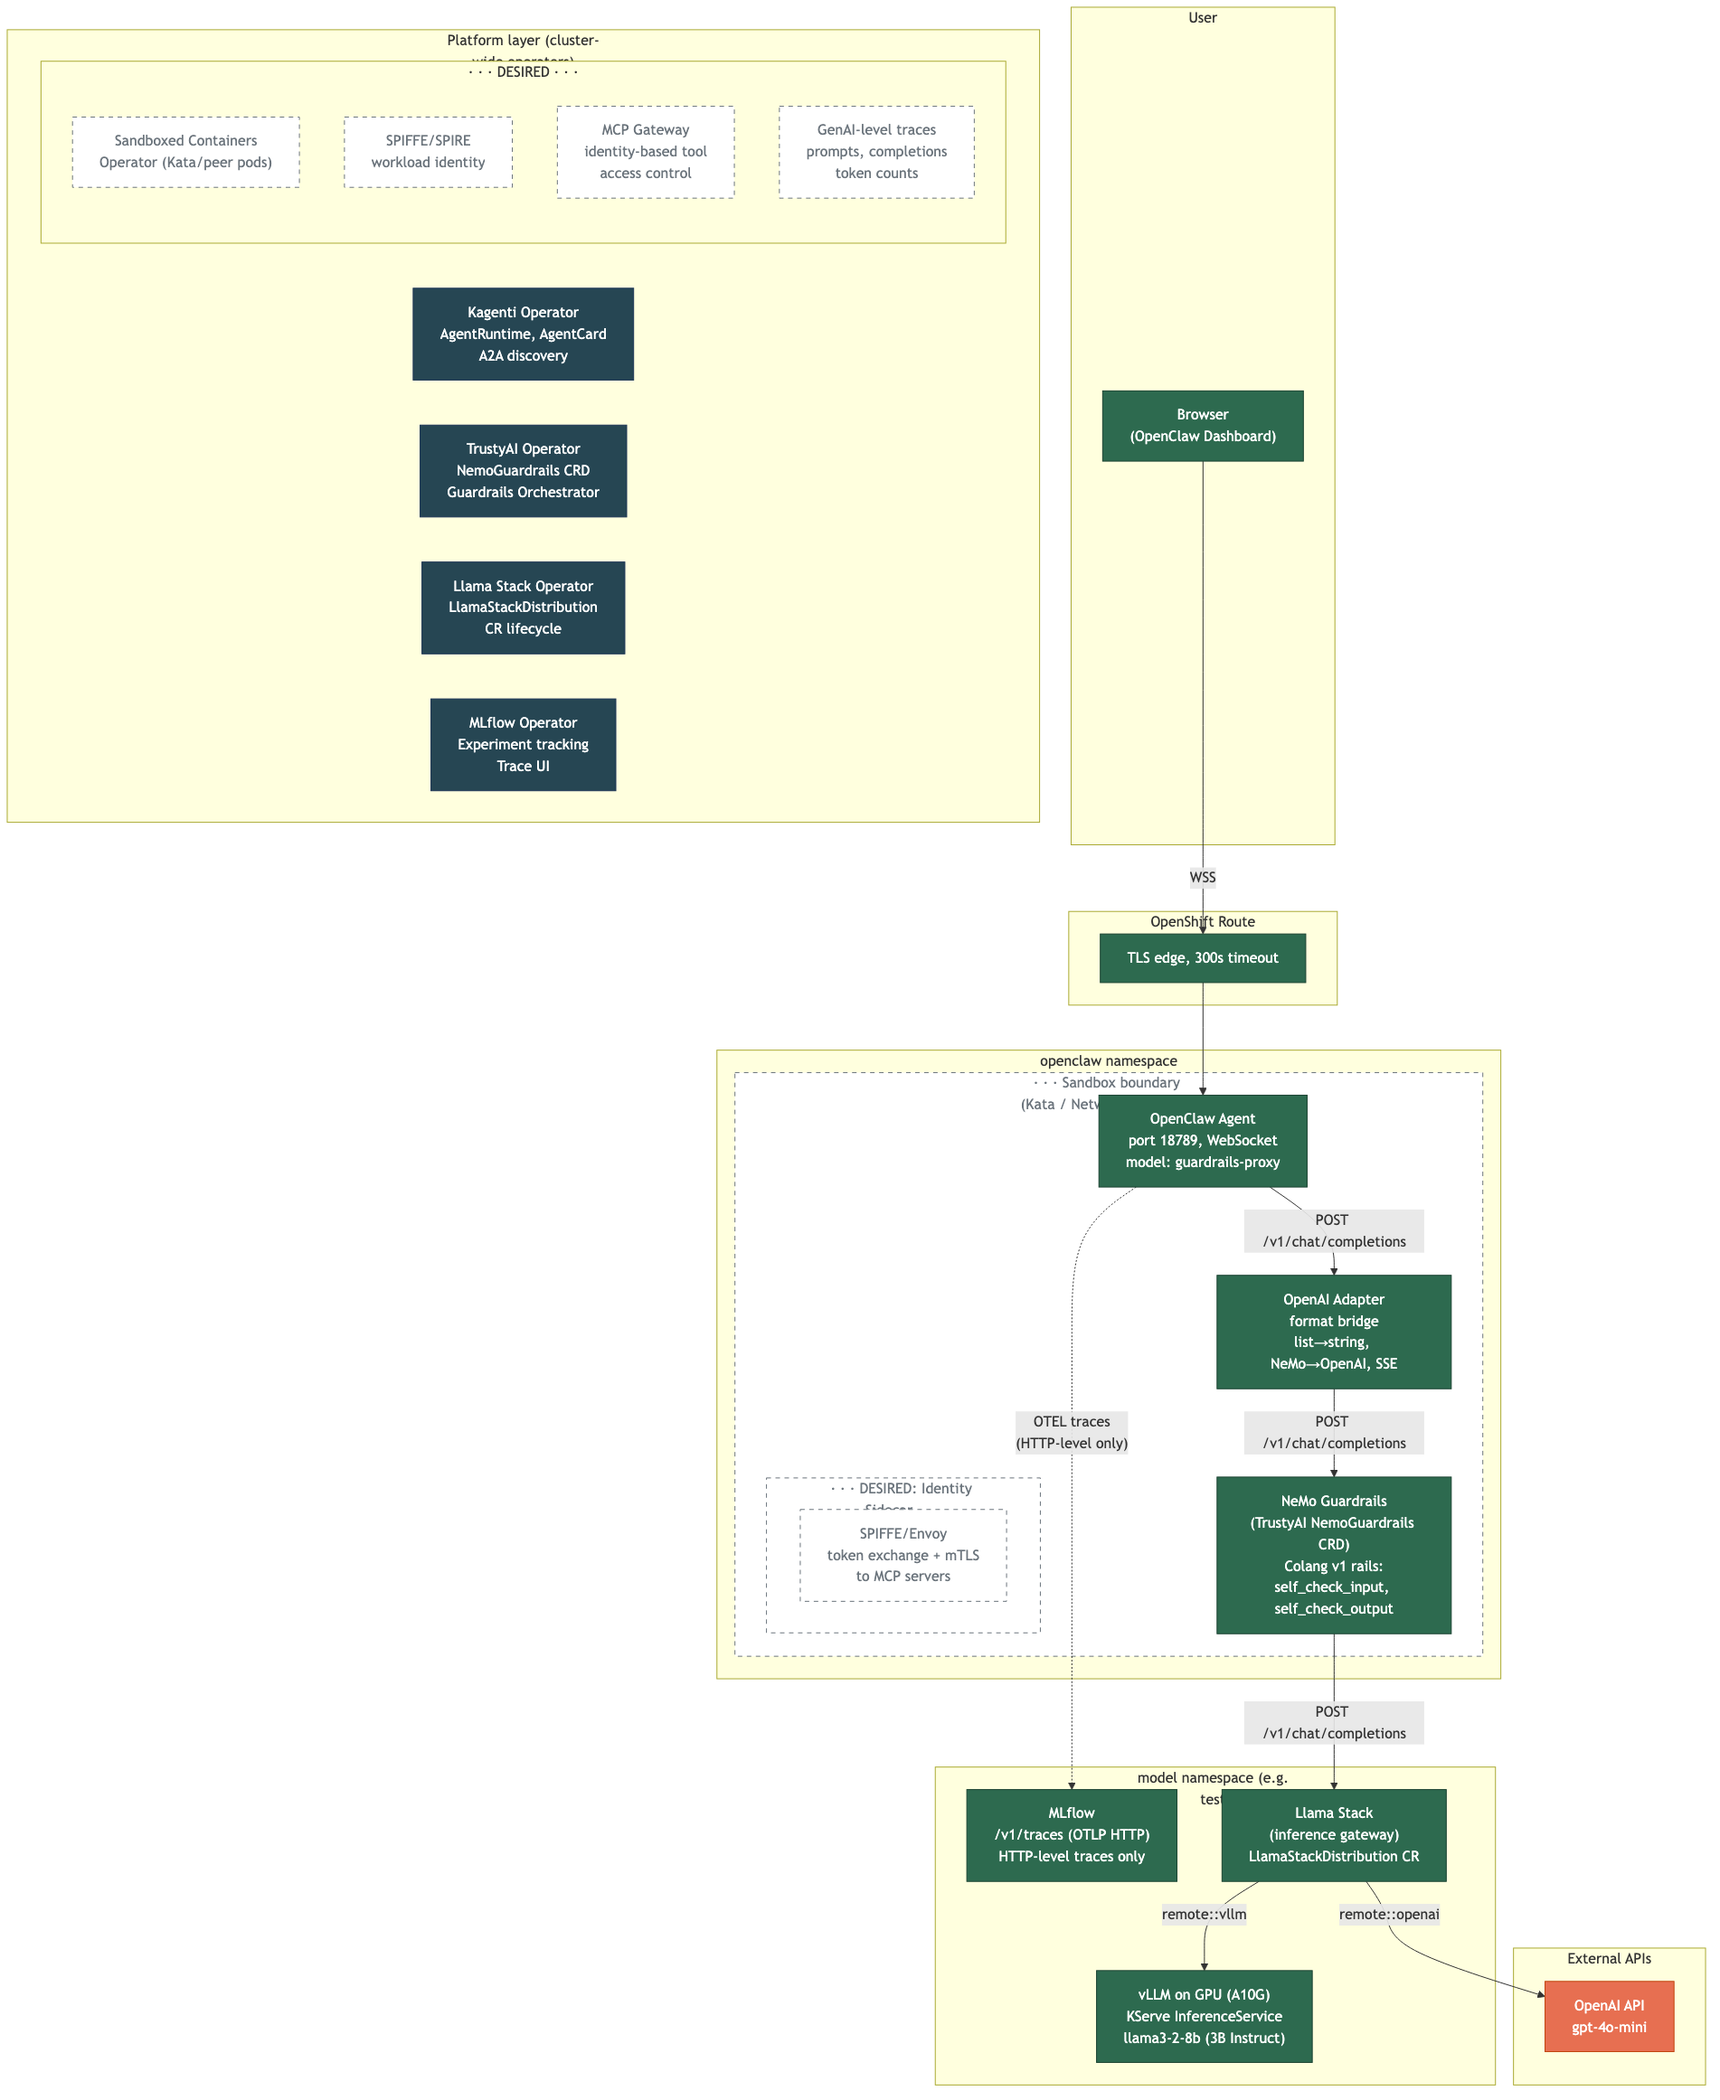
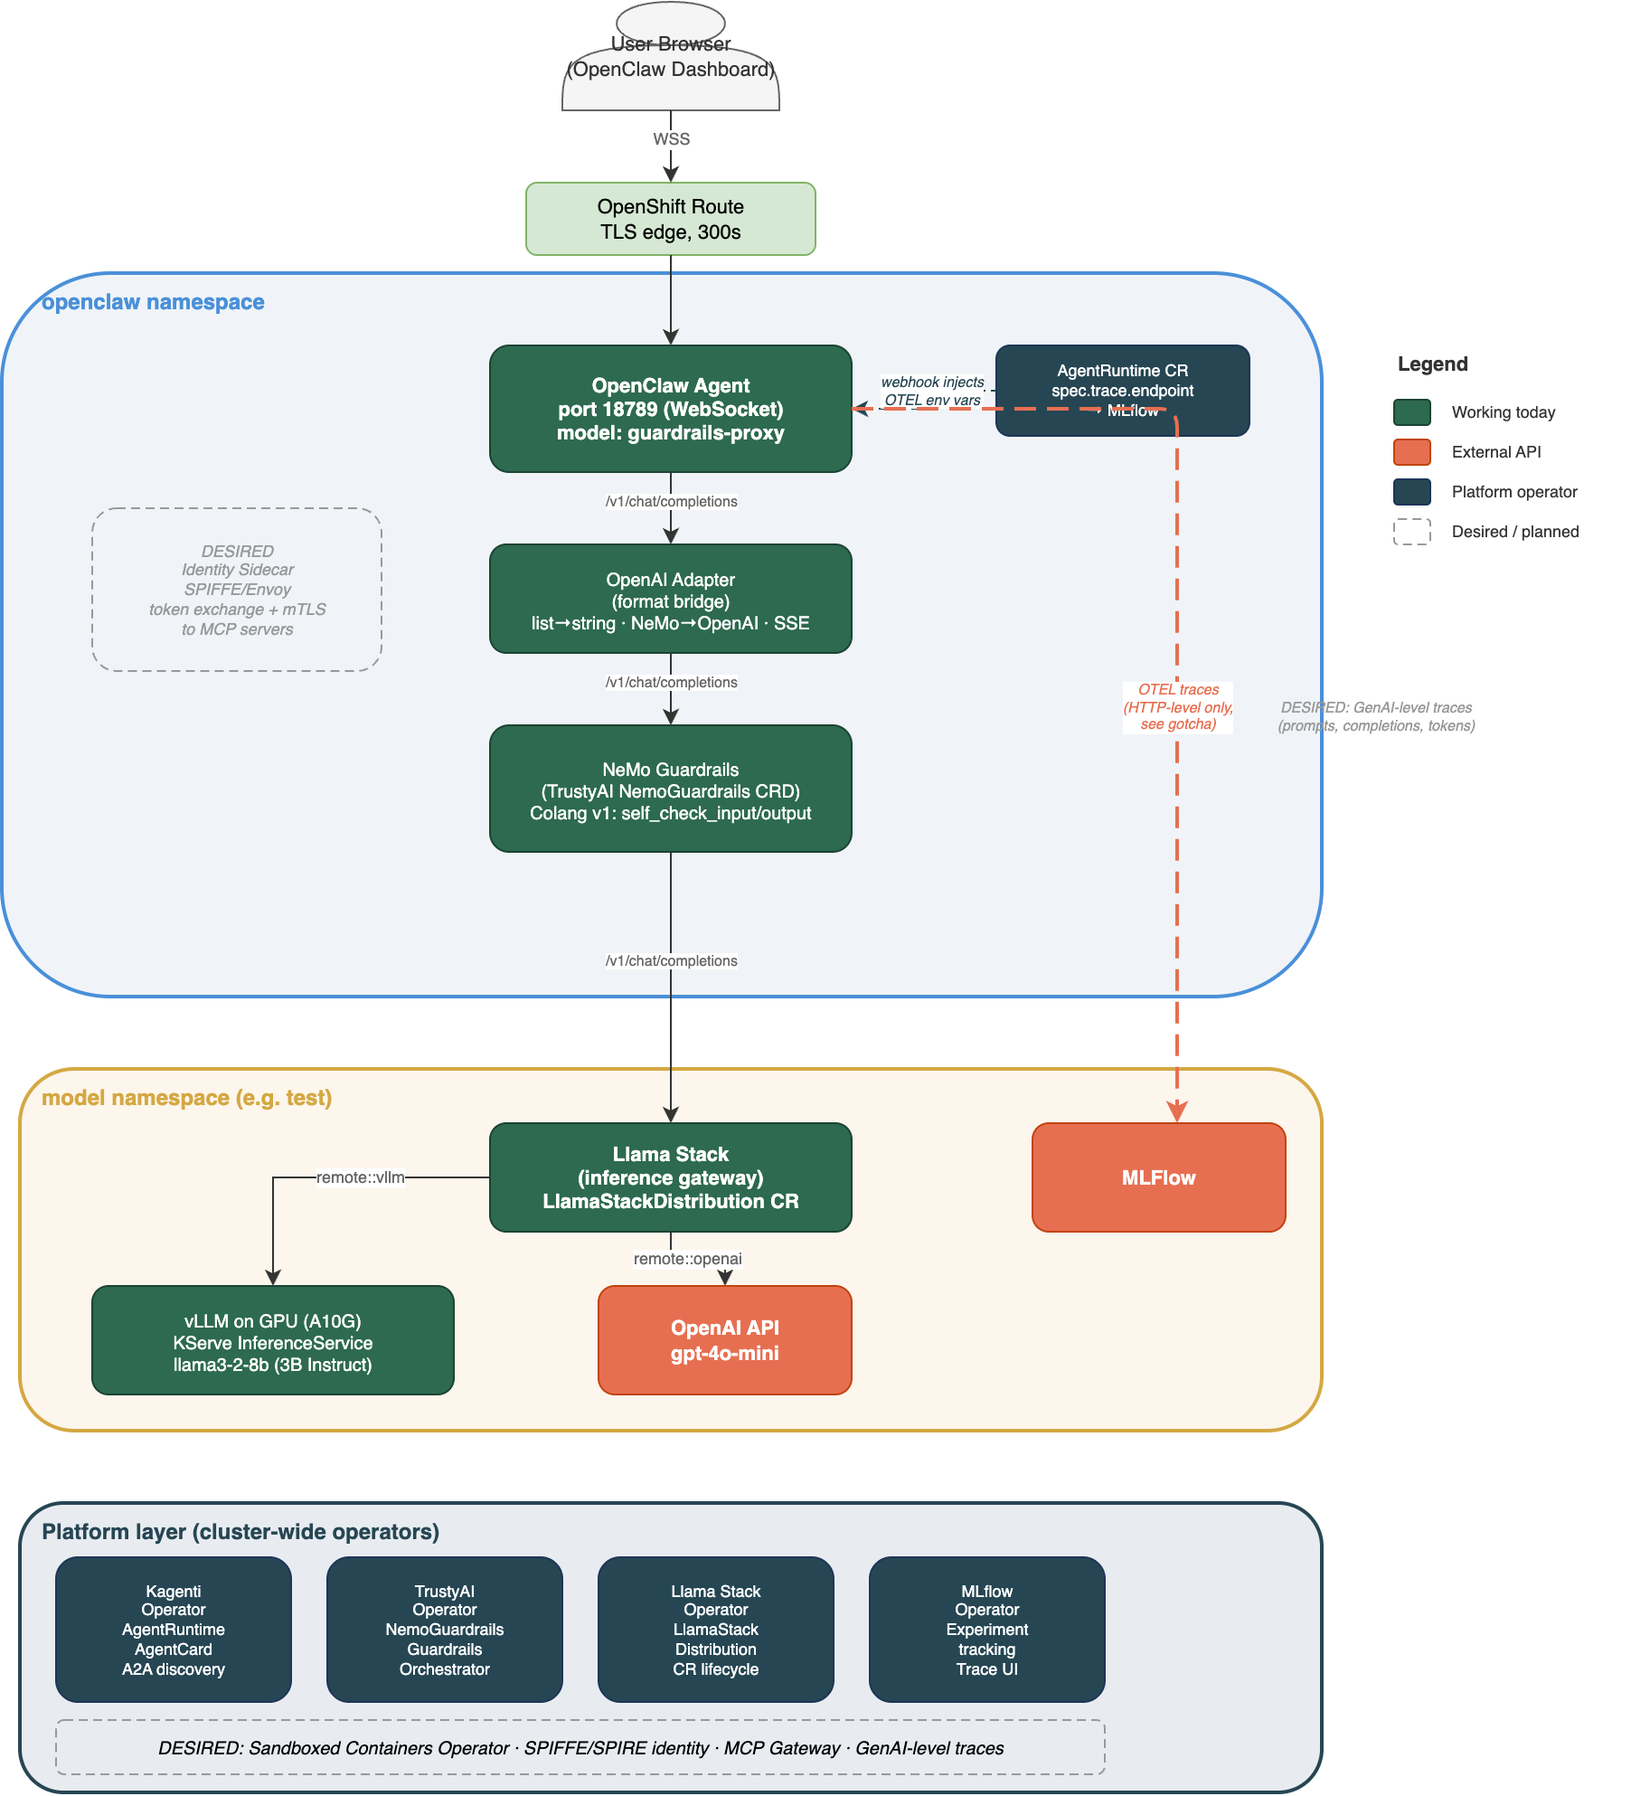
docs: replace ASCII diagram with draw.io PNG in README
Exported draw.io to PNG at 2x scale. ASCII art removed in favor of
the cleaner visual diagram showing all connections including
AgentRuntime→OTEL→MLflow trace flow.

diff --git a/README.md b/README.md
@@ -58,114 +58,9 @@ The skill walks through everything — operator, webhook, manifests, API keys, t
 
 ## What Gets Deployed
 
-Solid lines are working today. Dotted lines are planned/desired.
+Solid lines are working today. Dashed lines are planned/desired. [Editable source](docs/architecture.drawio).
 
-```
-                          ┌─────────────────────┐
-                          │     User Browser     │
-                          │  (OpenClaw Dashboard)│
-                          └──────────┬──────────┘
-                                     │ WSS (WebSocket over TLS)
-                          ┌──────────▼──────────┐
-                          │   OpenShift Route    │
-                          │  (TLS edge, 300s)    │
-                          └──────────┬──────────┘
-                                     │
-┌────────────────────────────────────┼────────────────────────────────────────┐
-│ openclaw namespace                 │                                        │
-│                                    │                                        │
-│  ┌ ─ ─ ─ ─ ─ ─ ─ ─ ─ ─ ─ ─ ─ ─ ─│─ ─ ─ ─ ─ ─ ─ ─ ─ ─ ─ ─ ─ ─ ─ ─ ┐  │
-│    DESIRED: Sandboxed pod (Kata)   │   or NetworkPolicy isolation          │
-│  │                                 │                                   │  │
-│                          ┌─────────▼──────────┐                            │
-│  │                       │   OpenClaw Agent    │  ·····OTEL······┐     │  │
-│                          │  (port 18789, WS)   │                 │         │
-│  │                       │                     │                 │     │  │
-│                          │  model provider:    │                 │         │
-│  │                       │  guardrails-proxy   │                 │     │  │
-│                          └─────────┬──────────┘                 │         │
-│  │                                 │                             │     │  │
-│   ┌ ─ ─ ─ ─ ─ ─ ─ ─ ─ ┐          │                             │         │
-│  ││ DESIRED: Identity  │          │                             │     │  │
-│   │ sidecar (SPIFFE/   │          │                             │         │
-│  ││ Envoy) for token   │          │                             │     │  │
-│   │ exchange + mTLS    │          │                             │         │
-│  ││ to MCP servers     │          │                             │     │  │
-│   └ ─ ─ ─ ─ ─ ─ ─ ─ ─ ┘          │                             │         │
-│  │                                 │ POST /v1/chat/completions  │     │  │
-│                          ┌─────────▼──────────┐                 │         │
-│  │                       │   OpenAI Adapter    │                 │     │  │
-│                          │  (format bridge)    │                 │         │
-│  │                       │  - list -> string   │                 │     │  │
-│                          │  - NeMo -> OpenAI   │                 │         │
-│  │                       │  - adds SSE stream  │                 │     │  │
-│                          └─────────┬──────────┘                 │         │
-│  │                                 │ POST /v1/chat/completions  │     │  │
-│                          ┌─────────▼──────────┐                 │         │
-│  │                       │  NeMo Guardrails    │                 │     │  │
-│                          │  (TrustyAI CRD)     │                 │         │
-│  │                       │                     │                 │     │  │
-│                          │  Colang v1 rails:   │                 │         │
-│  │                       │  - self_check_input │                 │     │  │
-│                          │  - self_check_output│                 │         │
-│  │                       │  - flow matching    │                 │     │  │
-│                          └─────────┬──────────┘                 │         │
-│  │                                 │                             │     │  │
-│  └ ─ ─ ─ ─ ─ ─ ─ ─ ─ ─ ─ ─ ─ ─ ─│─ ─ ─ ─ ─ ─ ─ ─ ─ ─ ─ ─ ─│─ ─ ┘  │
-│                                    │                             │        │
-└────────────────────────────────────┼─────────────────────────────┼────────┘
-                                     │                             │
-                                     │ POST /v1/chat/completions  │ OTLP
-                                     │                             │
-┌────────────────────────────────────┼─────────────────────────────┼────────┐
-│ model namespace (e.g. test)        │                             │        │
-│                          ┌─────────▼──────────┐      ┌──────────▼─────┐  │
-│                          │   Llama Stack       │      │    MLflow      │  │
-│                          │  (inference gateway)│      │                │  │
-│                          │                     │      │  /v1/traces    │  │
-│                          │  Providers:         │      │  (OTLP HTTP)  │  │
-│                          │  ┌───────────────┐  │      │                │  │
-│                          │  │ remote::openai ├─┼──┐   │  HTTP-level   │  │
-│                          │  └───────────────┘  │  │   │  traces only  │  │
-│                          │  ┌───────────────┐  │  │   │  (see gotcha) │  │
-│                          │  │ remote::vllm  ├──┼──┼┐  └───────────────┘  │
-│                          │  └───────────────┘  │  ││                     │
-│                          └────────────────────┘  ││                     │
-│                                                   ││                     │
-│                          ┌────────────────────────▼┼──────────────────┐  │
-│                          │    vLLM on GPU (A10G)   │                  │  │
-│                          │    KServe InferenceSvc  │                  │  │
-│                          │    llama3-2-8b (3B)     │                  │  │
-│                          └─────────────────────────┘                  │  │
-│                                                    │                     │
-│                                              ┌─────▼───────────────┐    │
-│                                              │   OpenAI API        │    │
-│                                              │   (gpt-4o-mini)     │    │
-│                                              └─────────────────────┘    │
-│                                                                          │
-└──────────────────────────────────────────────────────────────────────────┘
-
-┌──────────────────────────────────────────────────────────────────────────┐
-│ Platform layer (cluster-wide operators)                                  │
-│                                                                          │
-│  ┌──────────────┐  ┌──────────────┐  ┌──────────────┐  ┌────────────┐  │
-│  │   Kagenti    │  │   TrustyAI   │  │  Llama Stack │  │   MLflow   │  │
-│  │   Operator   │  │   Operator   │  │   Operator   │  │  Operator  │  │
-│  │              │  │              │  │              │  │            │  │
-│  │ AgentRuntime │  │ NemoGuardrail│  │ LlamaStack   │  │ Experiment │  │
-│  │ AgentCard    │  │ Guardrails   │  │ Distribution │  │ tracking   │  │
-│  │ A2A discover │  │ Orchestrator │  │ CR lifecycle │  │ trace UI   │  │
-│  └──────────────┘  └──────────────┘  └──────────────┘  └────────────┘  │
-│                                                                          │
-│  ┌ ─ ─ ─ ─ ─ ─ ─ ─ ─ ─ ─ ─ ─ ─ ─ ─ ─ ─ ─ ─ ─ ─ ─ ─ ─ ─ ─ ─ ─ ─ ┐  │
-│    DESIRED: Sandboxed Containers Operator (Kata/peer pods)               │
-│  │ DESIRED: SPIFFE/SPIRE for workload identity                       │  │
-│    DESIRED: MCP Gateway with identity-based tool access control          │
-│  │ DESIRED: GenAI-level traces (prompts, completions, token counts)  │  │
-│  └ ─ ─ ─ ─ ─ ─ ─ ─ ─ ─ ─ ─ ─ ─ ─ ─ ─ ─ ─ ─ ─ ─ ─ ─ ─ ─ ─ ─ ─ ─ ┘  │
-│                                                                          │
-└──────────────────────────────────────────────────────────────────────────┘
-```
+![Platform Architecture](docs/architecture.png)
 
 Three Kagenti primitives manage the agent's lifecycle:
 
